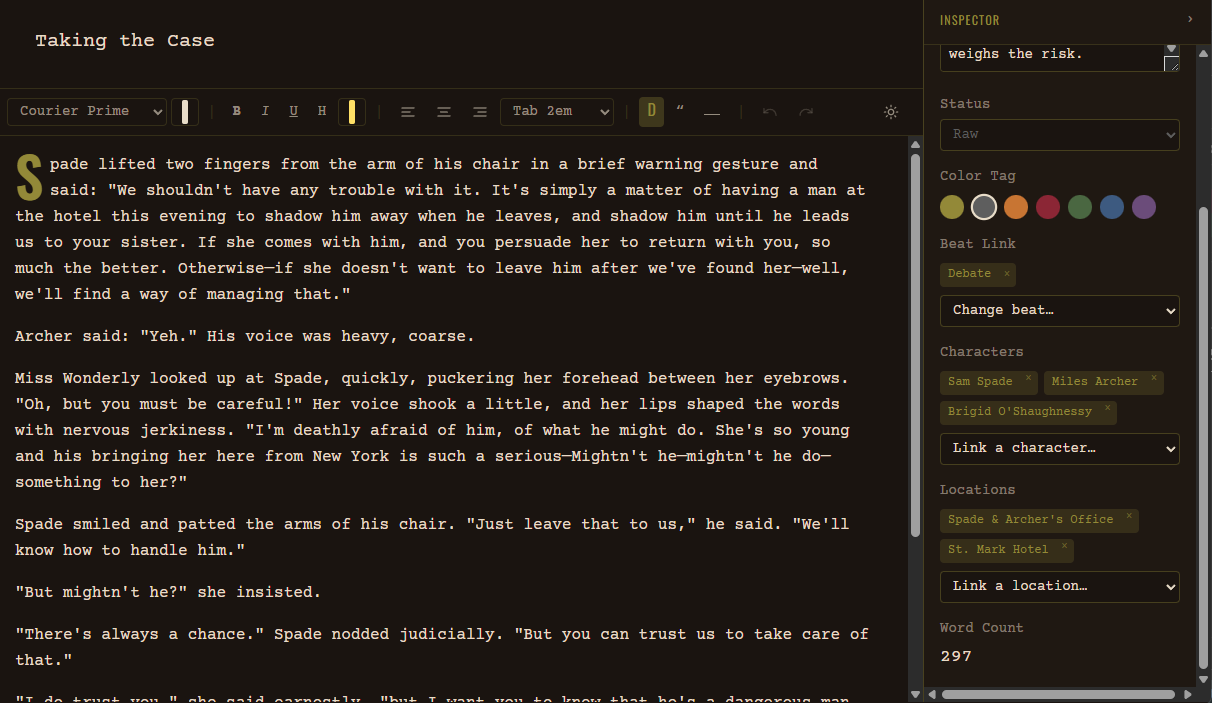
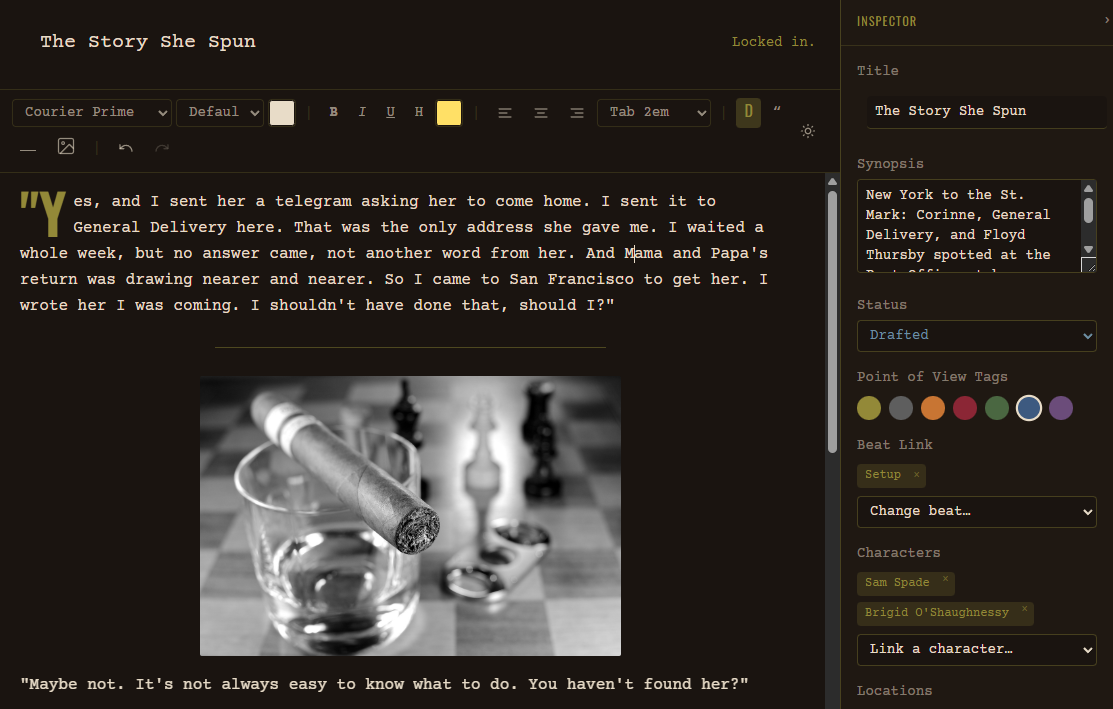
landing updates

diff --git a/src/pages/LandingPage.jsx b/src/pages/LandingPage.jsx
@@ -19,7 +19,7 @@ const FEATURES = [
   {
     id: 'editor',
     title: 'Scene editor',
-    body: 'Write with drop caps, scene dividers, live word count, and autosave that locks in your work.',
+    body: 'Write with drop caps, images, scene dividers, live word count, and autosave that locks in your work.',
     src: '/marketing/feature-editor.png',
     alt: 'TipTap scene editor with toolbar and prose',
     caption: 'feature-editor.png — Editor with toolbar & word count',